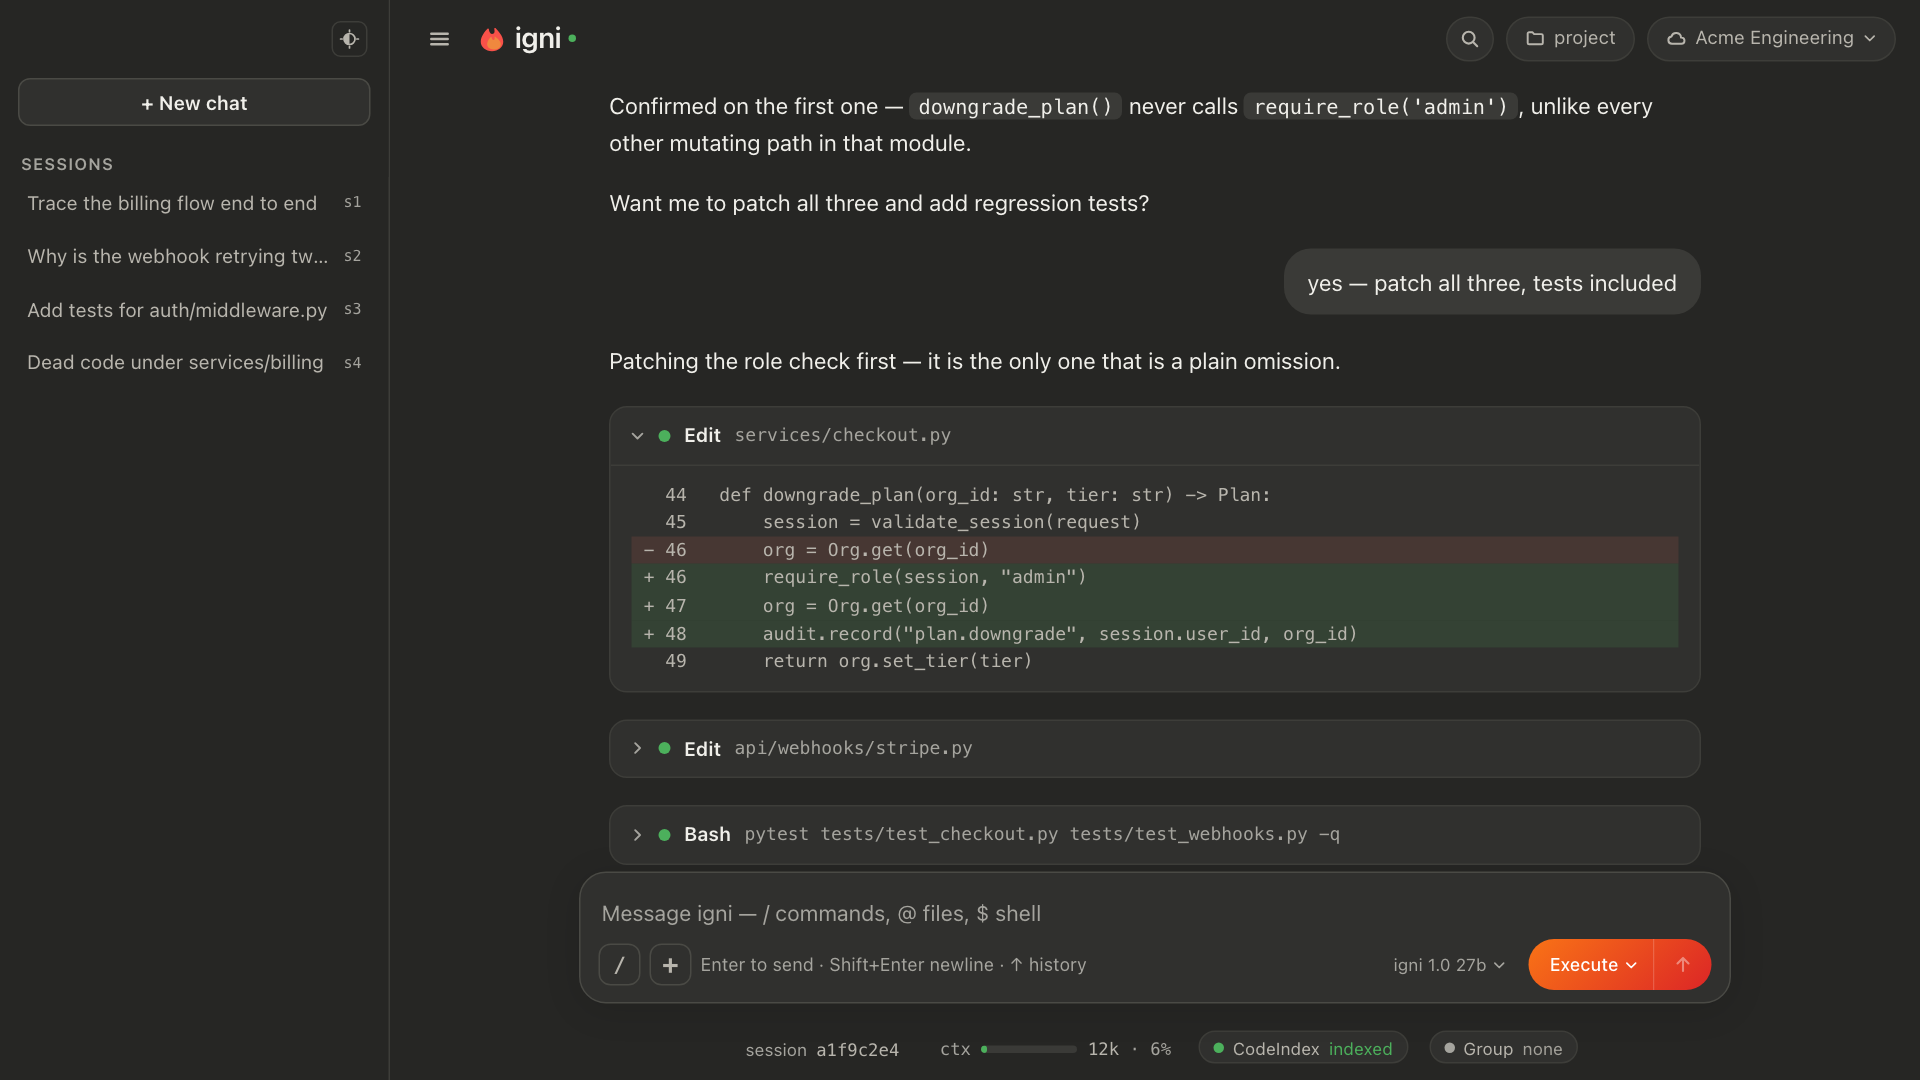
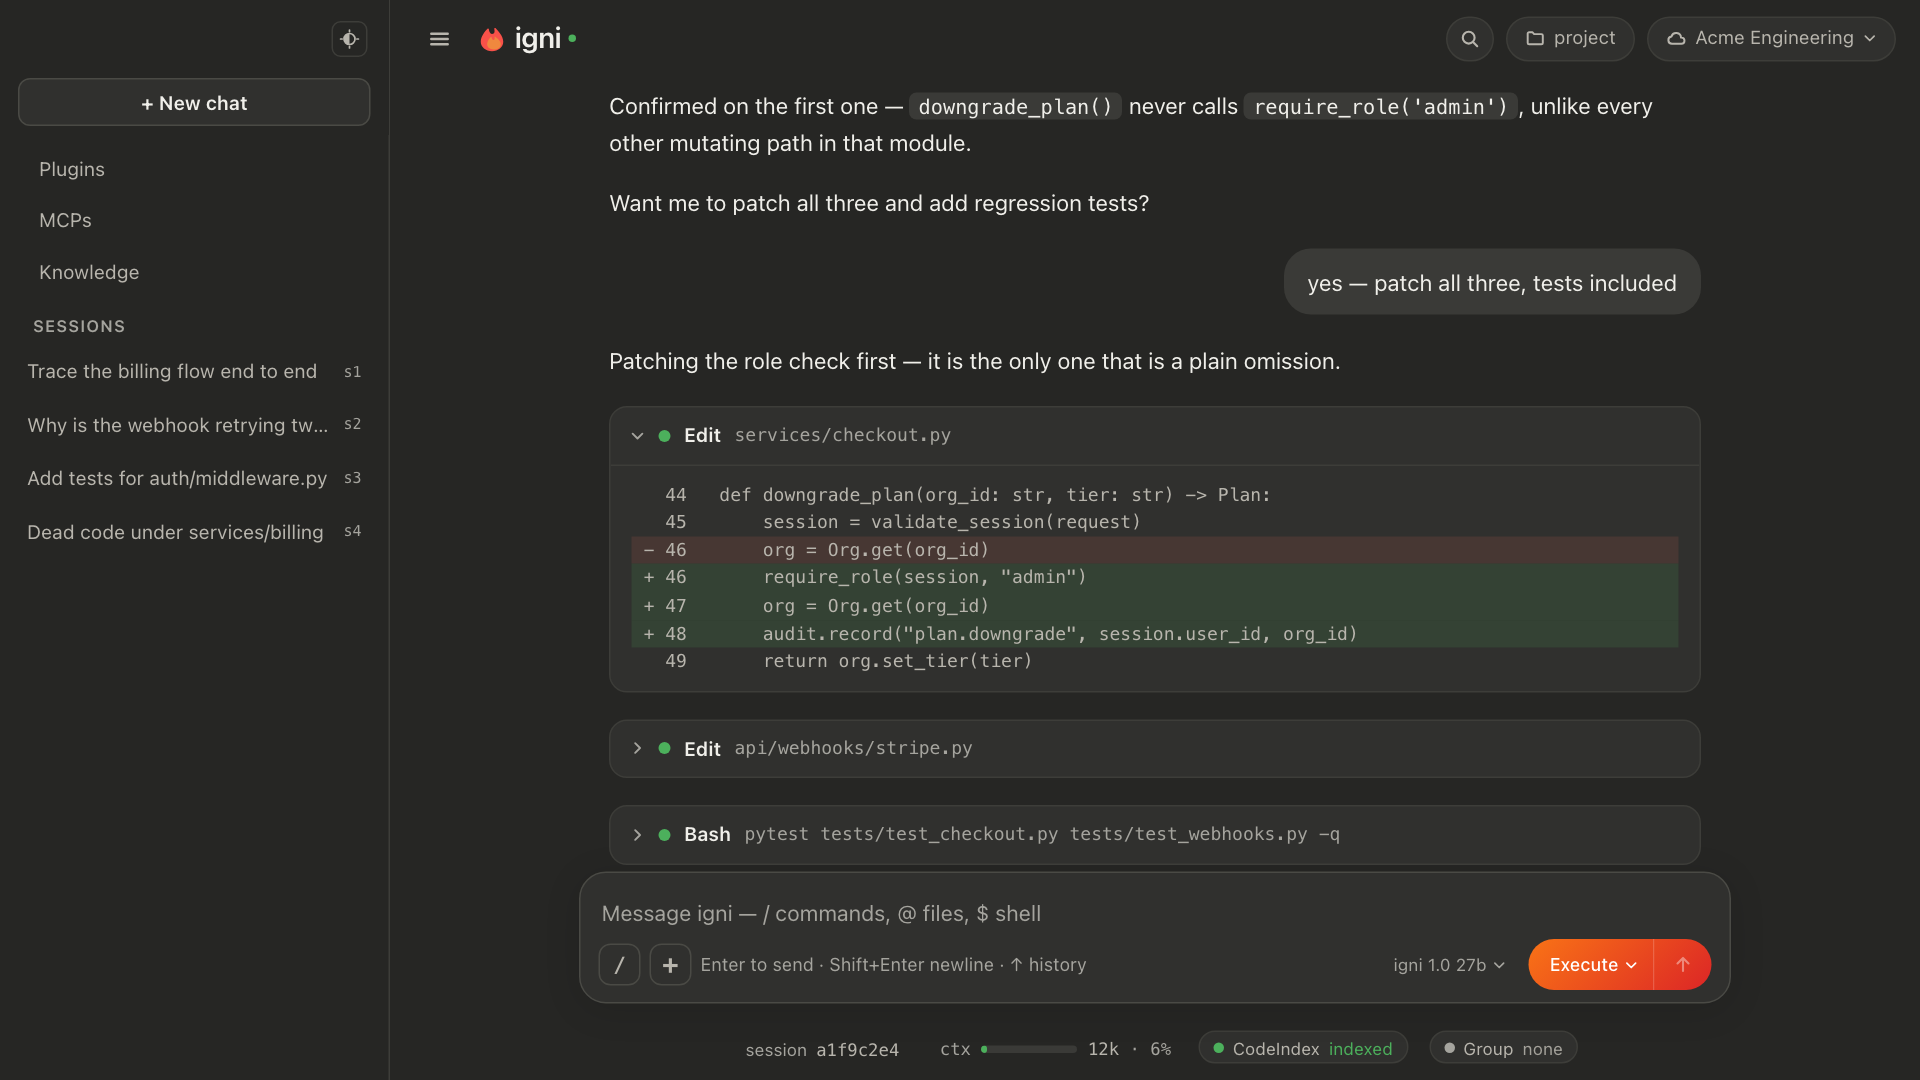
One flaky test was turning six passing siblings into a red build
Web E2E failed on PR #37 with Playwright reporting 163 passed, 1 flaky and
nothing failed. The job went red on the strict-coverage reporter instead: "17
did NOT run", 11 declared, 6 undeclared — all six in live-composer.spec.ts,
all six of which had in fact run and passed.

``onTestEnd`` fires once per *attempt*. A serial group whose first test fails
reports its remaining siblings as ``skipped`` for that attempt; they run on the
retry and pass, but the reporter had already pushed them into its skip list and
nothing took them back. So any flake in a serial group poisons the coverage
report permanently, and under IGNI_E2E_STRICT that is a failed build for a suite
where every test passed.

It now asks ``test.outcome()``, which is the verdict across every attempt.
Only a test that never ran at all counts as a skip. The reporter's own purpose
is unchanged — it exists so coverage cannot go quiet — and a test that ran on
the second attempt did run.

Also: the temp project the live fixture seeds is a git repository now. The
backend's file index is built by ``git ls-files --cached --others
--exclude-standard`` run with that directory as cwd, and giving it a repo makes
the answer deterministic and matches what production sees — a real project is a
repo. Stated honestly: I could not reproduce the mention flake this way, and a
probe showed ``git ls-files`` scopes to cwd with or without a repo there, so
this is hardening rather than a demonstrated fix. ``git init`` alone suffices,
[…]

Changed region(s): [[0.0, 0.1528, 0.1875, 0.3972], [0.0312, 0.4889, 0.1875, 0.5194], [0.0312, 0.4278, 0.1875, 0.4583]]

diff --git a/clients/web/e2e/fixtures/live-be.ts b/clients/web/e2e/fixtures/live-be.ts
@@ -114,6 +114,23 @@ async function writeProjectFiles(projectDir: string): Promise<void> {
       fsp.writeFile(path.join(projectDir, name), body, "utf8"),
     ),
   );
+
+  // A real project is a git repository, and the backend's file index is built
+  // by ``git ls-files --cached --others --exclude-standard`` run with this
+  // directory as cwd. Without a repo here that command walks *up* looking for
+  // one; on a CI runner it can find an enclosing checkout and answer with that
+  // repository's files instead of these. The index then holds the wrong tree,
+  // the ``@`` picker lists it, and the mention specs fail intermittently —
+  // which is what they did, taking six serial siblings down with them.
+  //
+  // ``git init`` alone is enough: ``--others`` lists untracked files, so
+  // nothing needs committing. Failure is not fatal — the index falls back to a
+  // directory walk, which is the path this was on before.
+  try {
+    await run("git", ["init", "--quiet"], { cwd: projectDir });
+  } catch {
+    // no git on PATH; the fallback walk still finds these files
+  }
 }
 
 async function writeStubConfig(projectDir: string): Promise<void> {

diff --git a/clients/web/e2e/reporters/skips.ts b/clients/web/e2e/reporters/skips.ts
@@ -82,6 +82,20 @@ export default class SkipReporter implements Reporter {
       this.ran += 1;
       return;
     }
+    // ``onTestEnd`` fires once per *attempt*, and a serial group whose first
+    // test fails reports its remaining siblings as ``skipped`` for that
+    // attempt. They run on the retry and pass, but this had already recorded
+    // them and never took them back — so one flaky test turned six passing
+    // siblings into "undeclared skips" and failed the job under
+    // ``IGNI_E2E_STRICT``, while Playwright itself reported 163 passed and
+    // nothing failed.
+    //
+    // ``test.outcome()`` is the verdict across every attempt. Only a test that
+    // never ran at all is a skip.
+    if (test.outcome() !== "skipped") {
+      this.ran += 1;
+      return;
+    }
     const declaredBy = test.tags.find((t) => t in DECLARED) ?? null;
     this.skips.push({
       title: test.titlePath().slice(3).join(" › ") || test.title,
